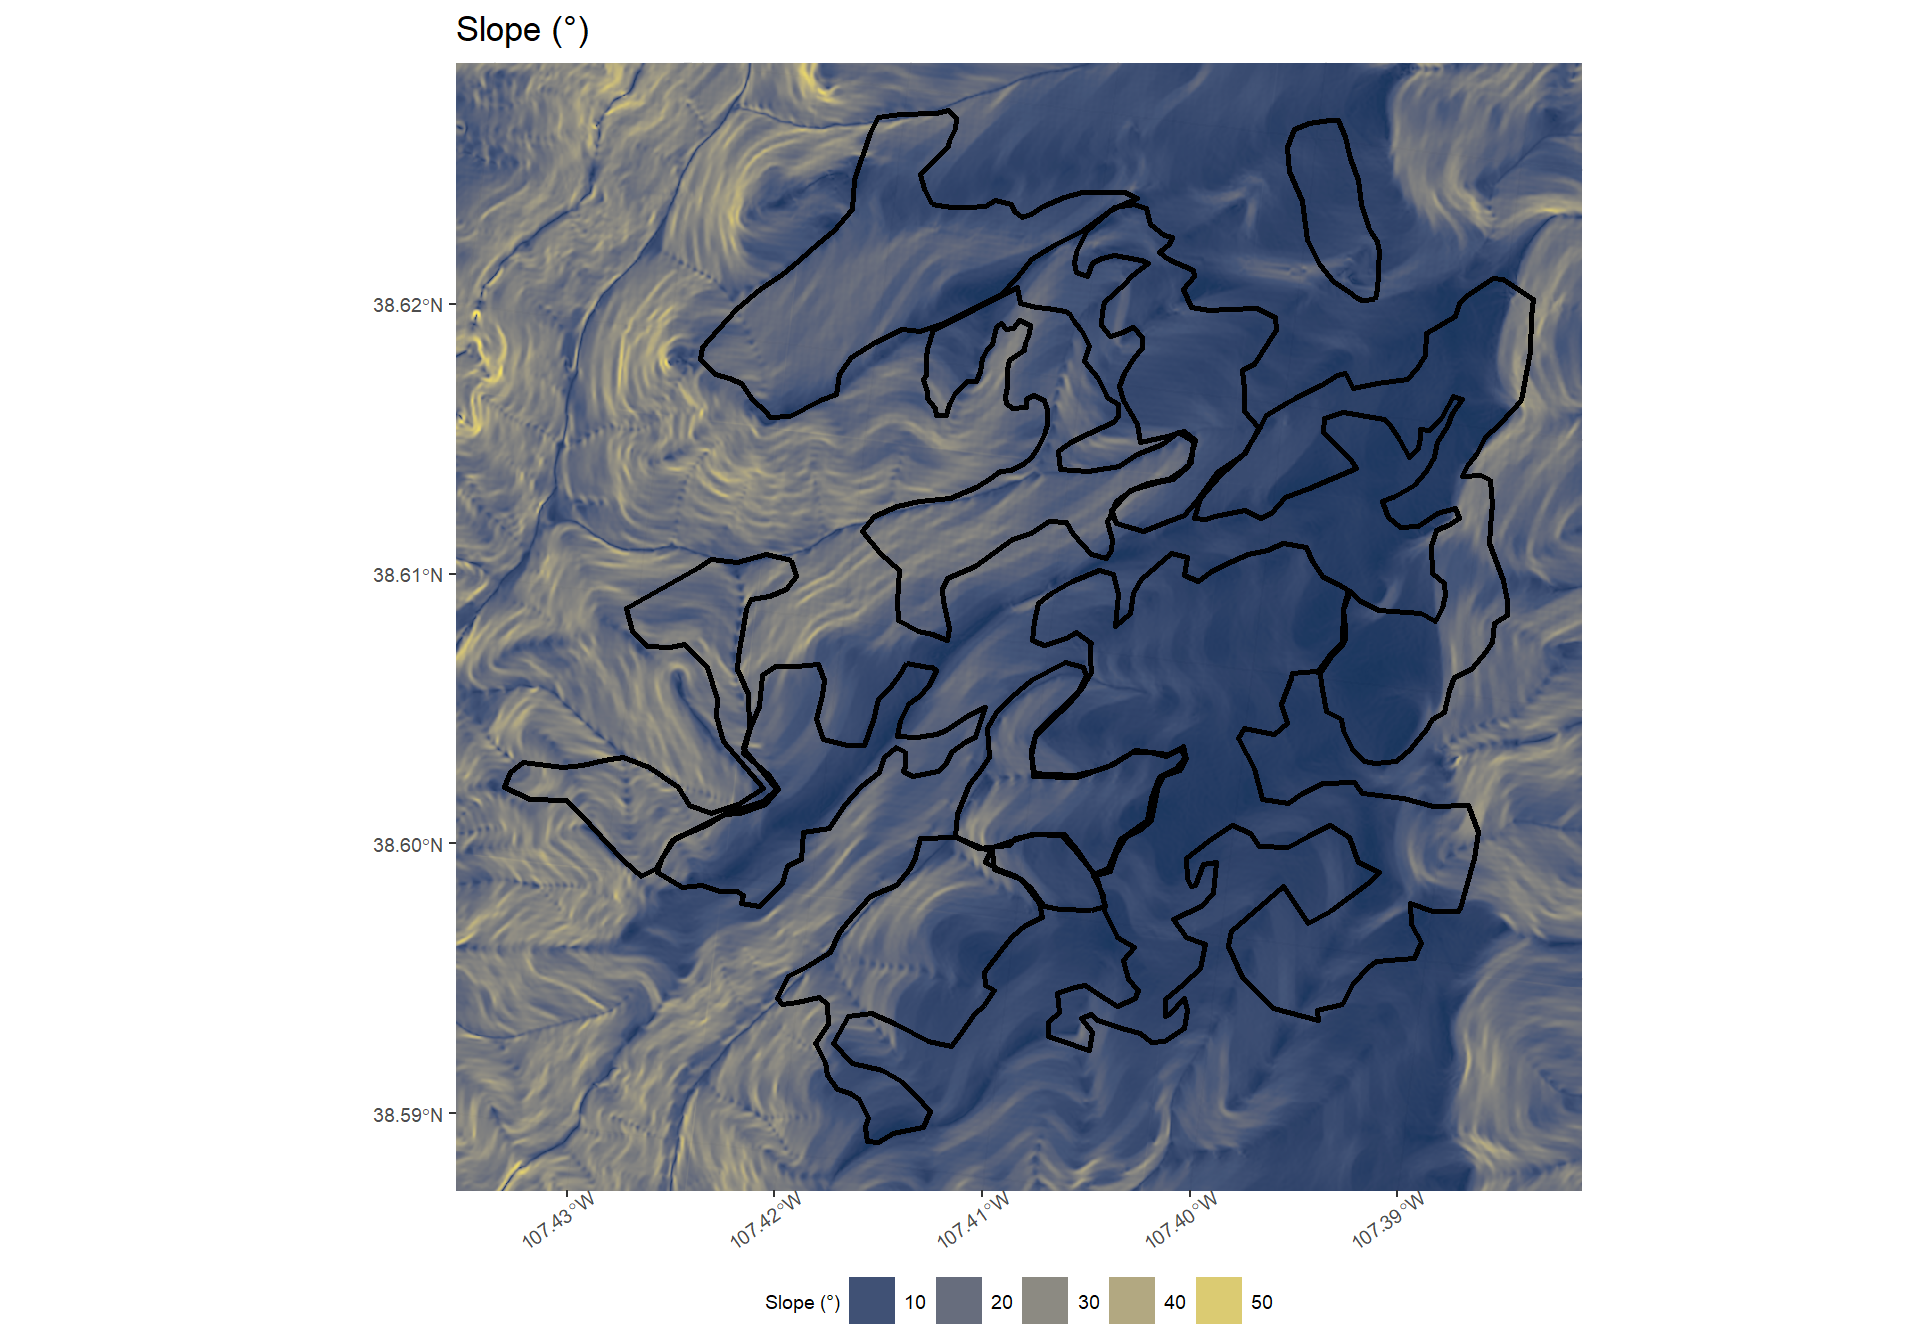
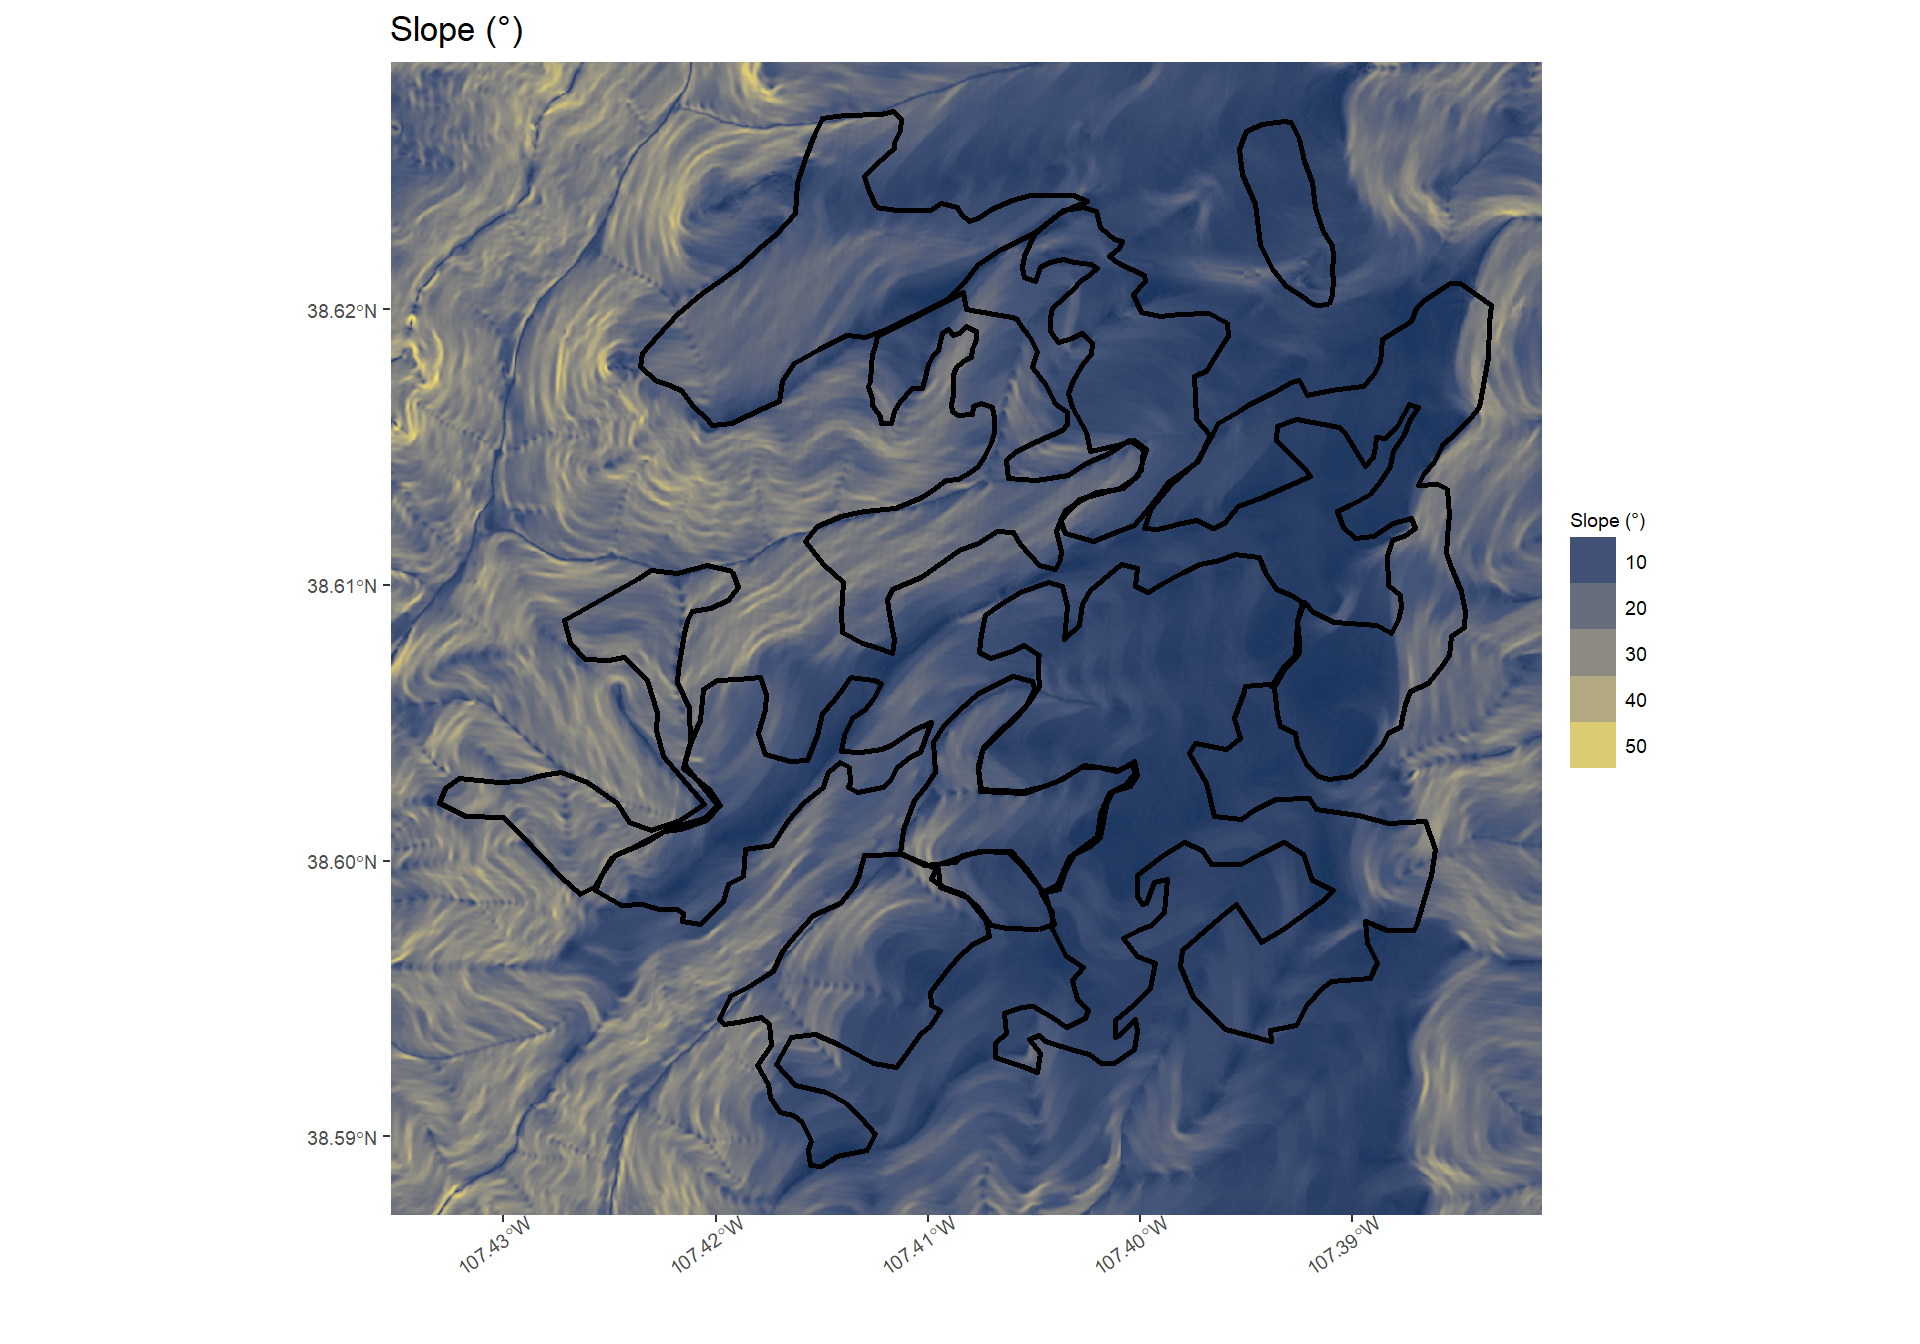
adding

Changed region(s): [[0.1562, 0.0, 0.8438, 1.0], [0.5938, 0.0312, 0.625, 0.0625]]

diff --git a/docs/import_data.html b/docs/import_data.html
@@ -527,26 +527,23 @@ where <span class="math inline">\(\theta\)</span> = aspect in degrees east of no
 <span id="cb12-40"><a href="import_data.html#cb12-40" aria-hidden="true" tabindex="-1"></a>      <span class="fu">scale_y_continuous</span>(<span class="at">expand =</span> <span class="fu">c</span>(<span class="dv">0</span>, <span class="dv">0</span>)) <span class="sc">+</span></span>
 <span id="cb12-41"><a href="import_data.html#cb12-41" aria-hidden="true" tabindex="-1"></a>      <span class="fu">theme_bw</span>() <span class="sc">+</span></span>
 <span id="cb12-42"><a href="import_data.html#cb12-42" aria-hidden="true" tabindex="-1"></a>      <span class="fu">theme</span>(</span>
-<span id="cb12-43"><a href="import_data.html#cb12-43" aria-hidden="true" tabindex="-1"></a>        <span class="at">legend.position =</span> <span class="st">&quot;bottom&quot;</span></span>
-<span id="cb12-44"><a href="import_data.html#cb12-44" aria-hidden="true" tabindex="-1"></a>        , <span class="at">legend.direction =</span> <span class="st">&quot;horizontal&quot;</span></span>
-<span id="cb12-45"><a href="import_data.html#cb12-45" aria-hidden="true" tabindex="-1"></a>        , <span class="at">legend.margin =</span> <span class="fu">margin</span>(<span class="dv">0</span>,<span class="dv">0</span>,<span class="dv">0</span>,<span class="dv">0</span>)</span>
-<span id="cb12-46"><a href="import_data.html#cb12-46" aria-hidden="true" tabindex="-1"></a>        , <span class="at">legend.box.margin =</span> <span class="fu">margin</span>(<span class="sc">-</span><span class="dv">21</span>,<span class="dv">0</span>,<span class="dv">2</span>,<span class="dv">0</span>)</span>
-<span id="cb12-47"><a href="import_data.html#cb12-47" aria-hidden="true" tabindex="-1"></a>        , <span class="at">legend.text =</span> <span class="fu">element_text</span>(<span class="at">size =</span> <span class="dv">7</span>)</span>
-<span id="cb12-48"><a href="import_data.html#cb12-48" aria-hidden="true" tabindex="-1"></a>        , <span class="at">legend.title =</span> <span class="fu">element_text</span>(<span class="at">size =</span> <span class="dv">7</span>)</span>
-<span id="cb12-49"><a href="import_data.html#cb12-49" aria-hidden="true" tabindex="-1"></a>        , <span class="at">axis.text.y =</span> <span class="fu">element_text</span>(<span class="at">size =</span> <span class="dv">7</span>)</span>
-<span id="cb12-50"><a href="import_data.html#cb12-50" aria-hidden="true" tabindex="-1"></a>        , <span class="at">axis.text.x =</span> <span class="fu">element_text</span>(<span class="at">size =</span> <span class="dv">7</span>, <span class="at">angle =</span> <span class="dv">35</span>, <span class="at">hjust =</span> <span class="fl">0.7</span>)</span>
-<span id="cb12-51"><a href="import_data.html#cb12-51" aria-hidden="true" tabindex="-1"></a>        , <span class="at">panel.border =</span> <span class="fu">element_blank</span>()</span>
-<span id="cb12-52"><a href="import_data.html#cb12-52" aria-hidden="true" tabindex="-1"></a>      ) <span class="sc">+</span></span>
-<span id="cb12-53"><a href="import_data.html#cb12-53" aria-hidden="true" tabindex="-1"></a>      <span class="fu">guides</span>(</span>
-<span id="cb12-54"><a href="import_data.html#cb12-54" aria-hidden="true" tabindex="-1"></a>        <span class="at">fill =</span> <span class="fu">guide_legend</span>(<span class="at">title=</span>vars_title[x])</span>
-<span id="cb12-55"><a href="import_data.html#cb12-55" aria-hidden="true" tabindex="-1"></a>      )</span>
-<span id="cb12-56"><a href="import_data.html#cb12-56" aria-hidden="true" tabindex="-1"></a>  )</span>
-<span id="cb12-57"><a href="import_data.html#cb12-57" aria-hidden="true" tabindex="-1"></a>}</span>
-<span id="cb12-58"><a href="import_data.html#cb12-58" aria-hidden="true" tabindex="-1"></a></span>
-<span id="cb12-59"><a href="import_data.html#cb12-59" aria-hidden="true" tabindex="-1"></a><span class="co"># combine plots</span></span>
-<span id="cb12-60"><a href="import_data.html#cb12-60" aria-hidden="true" tabindex="-1"></a><span class="co"># cowplot::plot_grid(plotlist =  plts, ncol = 2)</span></span>
-<span id="cb12-61"><a href="import_data.html#cb12-61" aria-hidden="true" tabindex="-1"></a><span class="fu">c</span>(<span class="dv">1</span><span class="sc">:</span><span class="fu">length</span>(vars)) <span class="sc">%&gt;%</span></span>
-<span id="cb12-62"><a href="import_data.html#cb12-62" aria-hidden="true" tabindex="-1"></a>  purrr<span class="sc">::</span><span class="fu">map</span>(plt_fn)</span></code></pre></div>
+<span id="cb12-43"><a href="import_data.html#cb12-43" aria-hidden="true" tabindex="-1"></a>        <span class="at">legend.margin =</span> <span class="fu">margin</span>(<span class="dv">0</span>,<span class="dv">0</span>,<span class="dv">0</span>,<span class="dv">0</span>)</span>
+<span id="cb12-44"><a href="import_data.html#cb12-44" aria-hidden="true" tabindex="-1"></a>        , <span class="at">legend.text =</span> <span class="fu">element_text</span>(<span class="at">size =</span> <span class="dv">7</span>)</span>
+<span id="cb12-45"><a href="import_data.html#cb12-45" aria-hidden="true" tabindex="-1"></a>        , <span class="at">legend.title =</span> <span class="fu">element_text</span>(<span class="at">size =</span> <span class="dv">7</span>)</span>
+<span id="cb12-46"><a href="import_data.html#cb12-46" aria-hidden="true" tabindex="-1"></a>        , <span class="at">axis.text.y =</span> <span class="fu">element_text</span>(<span class="at">size =</span> <span class="dv">7</span>)</span>
+<span id="cb12-47"><a href="import_data.html#cb12-47" aria-hidden="true" tabindex="-1"></a>        , <span class="at">axis.text.x =</span> <span class="fu">element_text</span>(<span class="at">size =</span> <span class="dv">7</span>, <span class="at">angle =</span> <span class="dv">35</span>, <span class="at">hjust =</span> <span class="fl">0.7</span>)</span>
+<span id="cb12-48"><a href="import_data.html#cb12-48" aria-hidden="true" tabindex="-1"></a>        , <span class="at">panel.border =</span> <span class="fu">element_blank</span>()</span>
+<span id="cb12-49"><a href="import_data.html#cb12-49" aria-hidden="true" tabindex="-1"></a>      ) <span class="sc">+</span></span>
+<span id="cb12-50"><a href="import_data.html#cb12-50" aria-hidden="true" tabindex="-1"></a>      <span class="fu">guides</span>(</span>
+<span id="cb12-51"><a href="import_data.html#cb12-51" aria-hidden="true" tabindex="-1"></a>        <span class="at">fill =</span> <span class="fu">guide_legend</span>(<span class="at">title=</span>vars_title[x])</span>
+<span id="cb12-52"><a href="import_data.html#cb12-52" aria-hidden="true" tabindex="-1"></a>      )</span>
+<span id="cb12-53"><a href="import_data.html#cb12-53" aria-hidden="true" tabindex="-1"></a>  )</span>
+<span id="cb12-54"><a href="import_data.html#cb12-54" aria-hidden="true" tabindex="-1"></a>}</span>
+<span id="cb12-55"><a href="import_data.html#cb12-55" aria-hidden="true" tabindex="-1"></a></span>
+<span id="cb12-56"><a href="import_data.html#cb12-56" aria-hidden="true" tabindex="-1"></a><span class="co"># combine plots</span></span>
+<span id="cb12-57"><a href="import_data.html#cb12-57" aria-hidden="true" tabindex="-1"></a><span class="co"># cowplot::plot_grid(plotlist =  plts, ncol = 2)</span></span>
+<span id="cb12-58"><a href="import_data.html#cb12-58" aria-hidden="true" tabindex="-1"></a><span class="fu">c</span>(<span class="dv">1</span><span class="sc">:</span><span class="fu">length</span>(vars)) <span class="sc">%&gt;%</span></span>
+<span id="cb12-59"><a href="import_data.html#cb12-59" aria-hidden="true" tabindex="-1"></a>  purrr<span class="sc">::</span><span class="fu">map</span>(plt_fn)</span></code></pre></div>
 <p><img src="usfs_GMUG_grpselection_files/figure-html/unnamed-chunk-15-1.png" width="960" /><img src="usfs_GMUG_grpselection_files/figure-html/unnamed-chunk-15-2.png" width="960" /><img src="usfs_GMUG_grpselection_files/figure-html/unnamed-chunk-15-3.png" width="960" /><img src="usfs_GMUG_grpselection_files/figure-html/unnamed-chunk-15-4.png" width="960" /><img src="usfs_GMUG_grpselection_files/figure-html/unnamed-chunk-15-5.png" width="960" /></p>
 </div>
 </div>
@@ -614,24 +611,21 @@ where <span class="math inline">\(\theta\)</span> = aspect in degrees east of no
 <span id="cb14-24"><a href="import_data.html#cb14-24" aria-hidden="true" tabindex="-1"></a>      <span class="fu">scale_y_continuous</span>(<span class="at">expand =</span> <span class="fu">c</span>(<span class="dv">0</span>, <span class="dv">0</span>)) <span class="sc">+</span></span>
 <span id="cb14-25"><a href="import_data.html#cb14-25" aria-hidden="true" tabindex="-1"></a>      <span class="fu">theme_bw</span>() <span class="sc">+</span></span>
 <span id="cb14-26"><a href="import_data.html#cb14-26" aria-hidden="true" tabindex="-1"></a>      <span class="fu">theme</span>(</span>
-<span id="cb14-27"><a href="import_data.html#cb14-27" aria-hidden="true" tabindex="-1"></a>        <span class="at">legend.position =</span> <span class="st">&quot;bottom&quot;</span></span>
-<span id="cb14-28"><a href="import_data.html#cb14-28" aria-hidden="true" tabindex="-1"></a>        , <span class="at">legend.direction =</span> <span class="st">&quot;horizontal&quot;</span></span>
-<span id="cb14-29"><a href="import_data.html#cb14-29" aria-hidden="true" tabindex="-1"></a>        , <span class="at">legend.margin =</span> <span class="fu">margin</span>(<span class="dv">0</span>,<span class="dv">0</span>,<span class="dv">0</span>,<span class="dv">0</span>)</span>
-<span id="cb14-30"><a href="import_data.html#cb14-30" aria-hidden="true" tabindex="-1"></a>        , <span class="at">legend.box.margin =</span> <span class="fu">margin</span>(<span class="sc">-</span><span class="dv">21</span>,<span class="dv">0</span>,<span class="dv">2</span>,<span class="dv">0</span>)</span>
-<span id="cb14-31"><a href="import_data.html#cb14-31" aria-hidden="true" tabindex="-1"></a>        , <span class="at">legend.text =</span> <span class="fu">element_text</span>(<span class="at">size =</span> <span class="dv">7</span>)</span>
-<span id="cb14-32"><a href="import_data.html#cb14-32" aria-hidden="true" tabindex="-1"></a>        , <span class="at">legend.title =</span> <span class="fu">element_text</span>(<span class="at">size =</span> <span class="dv">7</span>)</span>
-<span id="cb14-33"><a href="import_data.html#cb14-33" aria-hidden="true" tabindex="-1"></a>        , <span class="at">axis.text.y =</span> <span class="fu">element_text</span>(<span class="at">size =</span> <span class="dv">7</span>)</span>
-<span id="cb14-34"><a href="import_data.html#cb14-34" aria-hidden="true" tabindex="-1"></a>        , <span class="at">axis.text.x =</span> <span class="fu">element_text</span>(<span class="at">size =</span> <span class="dv">7</span>, <span class="at">angle =</span> <span class="dv">35</span>, <span class="at">hjust =</span> <span class="fl">0.7</span>)</span>
-<span id="cb14-35"><a href="import_data.html#cb14-35" aria-hidden="true" tabindex="-1"></a>        , <span class="at">panel.border =</span> <span class="fu">element_blank</span>()</span>
-<span id="cb14-36"><a href="import_data.html#cb14-36" aria-hidden="true" tabindex="-1"></a>      ) <span class="sc">+</span></span>
-<span id="cb14-37"><a href="import_data.html#cb14-37" aria-hidden="true" tabindex="-1"></a>      <span class="fu">guides</span>(</span>
-<span id="cb14-38"><a href="import_data.html#cb14-38" aria-hidden="true" tabindex="-1"></a>        <span class="at">fill =</span> <span class="fu">guide_legend</span>(<span class="at">title=</span>vars_title[x])</span>
-<span id="cb14-39"><a href="import_data.html#cb14-39" aria-hidden="true" tabindex="-1"></a>      )</span>
-<span id="cb14-40"><a href="import_data.html#cb14-40" aria-hidden="true" tabindex="-1"></a>  )</span>
-<span id="cb14-41"><a href="import_data.html#cb14-41" aria-hidden="true" tabindex="-1"></a>}</span>
-<span id="cb14-42"><a href="import_data.html#cb14-42" aria-hidden="true" tabindex="-1"></a></span>
-<span id="cb14-43"><a href="import_data.html#cb14-43" aria-hidden="true" tabindex="-1"></a><span class="fu">c</span>(<span class="dv">1</span><span class="sc">:</span><span class="fu">length</span>(vars)) <span class="sc">%&gt;%</span></span>
-<span id="cb14-44"><a href="import_data.html#cb14-44" aria-hidden="true" tabindex="-1"></a>  purrr<span class="sc">::</span><span class="fu">map</span>(plt_grp_fn)</span></code></pre></div>
+<span id="cb14-27"><a href="import_data.html#cb14-27" aria-hidden="true" tabindex="-1"></a>        <span class="at">legend.margin =</span> <span class="fu">margin</span>(<span class="dv">0</span>,<span class="dv">0</span>,<span class="dv">0</span>,<span class="dv">0</span>)</span>
+<span id="cb14-28"><a href="import_data.html#cb14-28" aria-hidden="true" tabindex="-1"></a>        , <span class="at">legend.text =</span> <span class="fu">element_text</span>(<span class="at">size =</span> <span class="dv">7</span>)</span>
+<span id="cb14-29"><a href="import_data.html#cb14-29" aria-hidden="true" tabindex="-1"></a>        , <span class="at">legend.title =</span> <span class="fu">element_text</span>(<span class="at">size =</span> <span class="dv">7</span>)</span>
+<span id="cb14-30"><a href="import_data.html#cb14-30" aria-hidden="true" tabindex="-1"></a>        , <span class="at">axis.text.y =</span> <span class="fu">element_text</span>(<span class="at">size =</span> <span class="dv">7</span>)</span>
+<span id="cb14-31"><a href="import_data.html#cb14-31" aria-hidden="true" tabindex="-1"></a>        , <span class="at">axis.text.x =</span> <span class="fu">element_text</span>(<span class="at">size =</span> <span class="dv">7</span>, <span class="at">angle =</span> <span class="dv">35</span>, <span class="at">hjust =</span> <span class="fl">0.7</span>)</span>
+<span id="cb14-32"><a href="import_data.html#cb14-32" aria-hidden="true" tabindex="-1"></a>        , <span class="at">panel.border =</span> <span class="fu">element_blank</span>()</span>
+<span id="cb14-33"><a href="import_data.html#cb14-33" aria-hidden="true" tabindex="-1"></a>      ) <span class="sc">+</span></span>
+<span id="cb14-34"><a href="import_data.html#cb14-34" aria-hidden="true" tabindex="-1"></a>      <span class="fu">guides</span>(</span>
+<span id="cb14-35"><a href="import_data.html#cb14-35" aria-hidden="true" tabindex="-1"></a>        <span class="at">fill =</span> <span class="fu">guide_legend</span>(<span class="at">title=</span>vars_title[x])</span>
+<span id="cb14-36"><a href="import_data.html#cb14-36" aria-hidden="true" tabindex="-1"></a>      )</span>
+<span id="cb14-37"><a href="import_data.html#cb14-37" aria-hidden="true" tabindex="-1"></a>  )</span>
+<span id="cb14-38"><a href="import_data.html#cb14-38" aria-hidden="true" tabindex="-1"></a>}</span>
+<span id="cb14-39"><a href="import_data.html#cb14-39" aria-hidden="true" tabindex="-1"></a></span>
+<span id="cb14-40"><a href="import_data.html#cb14-40" aria-hidden="true" tabindex="-1"></a><span class="fu">c</span>(<span class="dv">1</span><span class="sc">:</span><span class="fu">length</span>(vars)) <span class="sc">%&gt;%</span></span>
+<span id="cb14-41"><a href="import_data.html#cb14-41" aria-hidden="true" tabindex="-1"></a>  purrr<span class="sc">::</span><span class="fu">map</span>(plt_grp_fn)</span></code></pre></div>
 <p><img src="usfs_GMUG_grpselection_files/figure-html/unnamed-chunk-17-1.png" width="960" /><img src="usfs_GMUG_grpselection_files/figure-html/unnamed-chunk-17-2.png" width="960" /><img src="usfs_GMUG_grpselection_files/figure-html/unnamed-chunk-17-3.png" width="960" /><img src="usfs_GMUG_grpselection_files/figure-html/unnamed-chunk-17-4.png" width="960" /><img src="usfs_GMUG_grpselection_files/figure-html/unnamed-chunk-17-5.png" width="960" /></p>
 
 </div>
